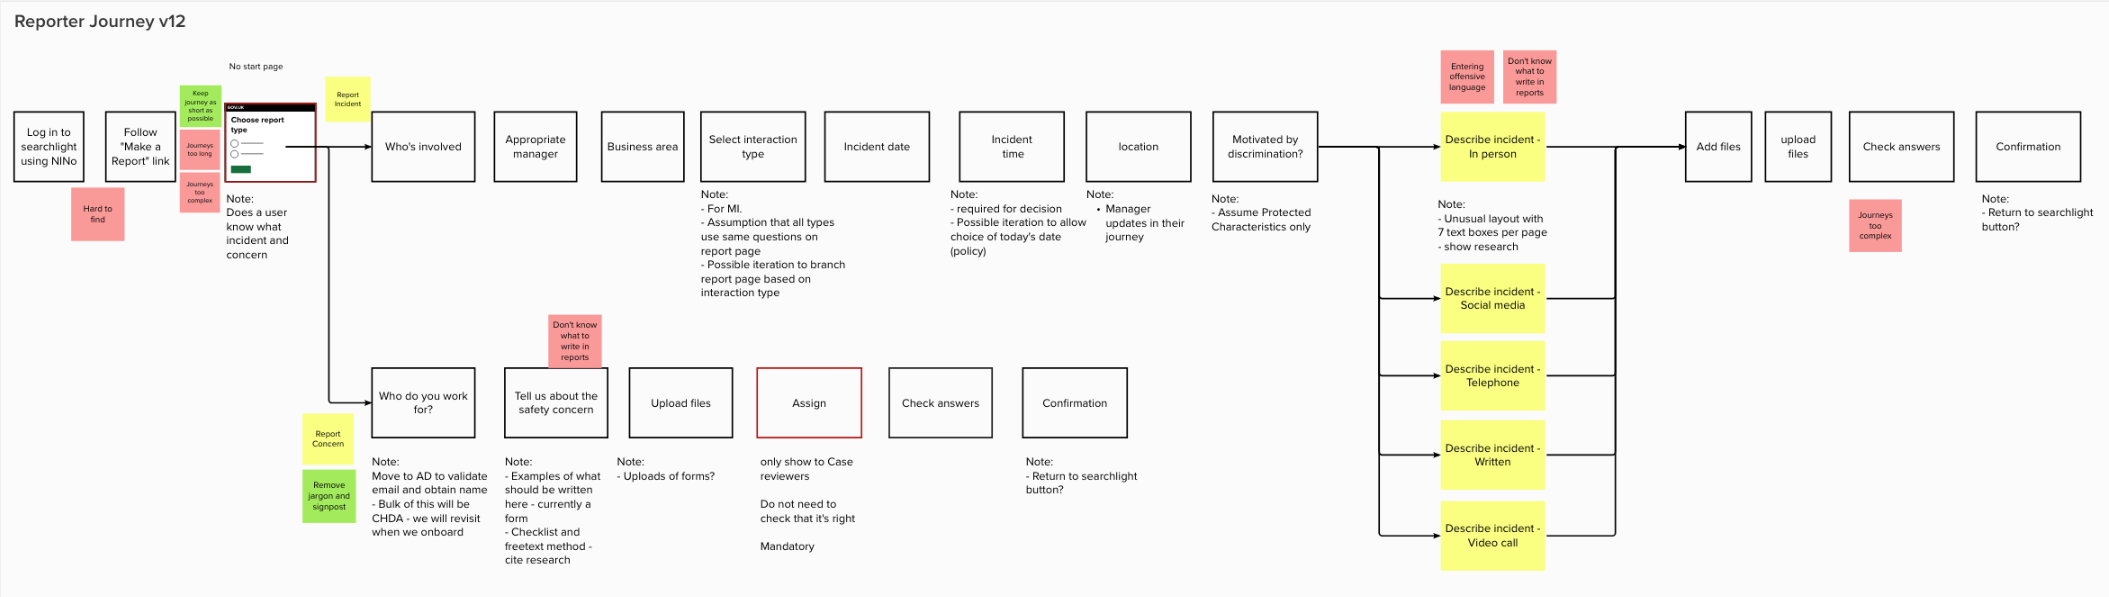
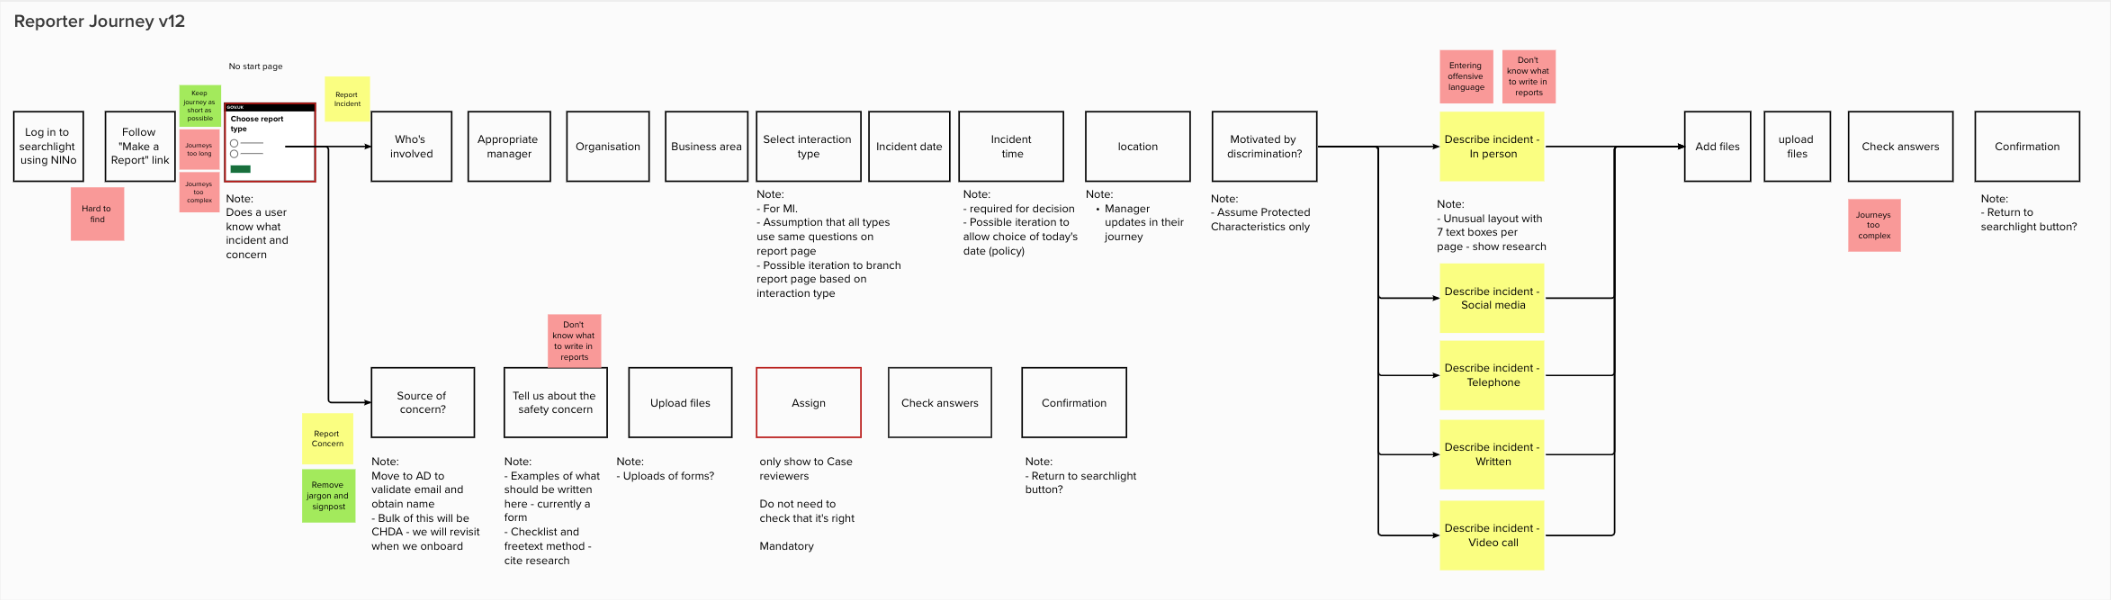
feature (reporter) organisation / business line

diff --git a/app/views/beta/report_incident/reportv12/04aorganisation.html b/app/views/beta/report_incident/reportv12/04aorganisation.html
@@ -1,0 +1,88 @@
+{% extends "layout.html" %}
+
+{% block pageTitle %}
+  Which organisation do you work for? - Keep Customer Interactions Safe
+{% endblock %}
+
+{% block beforeContent %}
+  <section aria-label="Phase banner" role="region">
+    {{ govukPhaseBanner({
+      tag: {
+        text: "beta"
+      },
+      html: 'This is a new service – your <a class="govuk-link" href="02behalf_error">feedback</a> will help us to improve it.'
+    }) }}
+  </section>
+  {% include "templates/v2/header_searchlight.njk" %}
+  <section aria-label="Back" role="region">
+    {{ govukBackLink({
+      text: "Back",
+      href: "javascript:history.back()"
+    }) }}
+  </section>
+{% endblock %}
+
+{% block content %}
+  <div class="govuk-grid-row">
+    <div class="govuk-grid-column-two-thirds">
+      <form class="form" action="04bbusiness" method="post">
+        {{ govukRadios({
+          idPrefix: "business",
+          name: "business",
+          fieldset: {
+            legend: {
+              text: "Which organisation do you work for?",
+              isPageHeading: true,
+              classes: "govuk-fieldset__legend--l"
+            }
+          },
+          items: [
+            {
+              value: "chda",
+              text: "Centre for Health and Disability Assessments (CHDA)"
+            },
+            {
+              value: "g4s",
+              text: "G4S"
+            },
+            {
+              value: "teleperformance",
+              text: "Teleperformance"
+            },
+            {
+              value: "capita",
+              text: "Capita"
+            },
+            {
+              value: "serco",
+              text: "Serco"
+            },
+            {
+              value: "ventura",
+              text: "Ventura"
+            },
+            {
+              value: "dwp",
+              text: "Department for Work and Pensions (DWP)"
+            },
+            {
+              value: "other",
+              text: "Other"
+            }
+          ],
+          hint: {
+            text: "Select one option."
+          }
+        }) }}
+        <div>
+          {{ govukButton({
+            text: "Continue"
+          }) }}
+        </div>
+      </form>
+    </div>
+  </div>
+	{% if not (checked("displaymode", "presentation") == "checked") %}
+		{% include "./notes/04aorganisation__notes.njk" %}
+	{% endif %}
+{% endblock %}

diff --git a/app/views/beta/report_incident/reportv12/04bbusiness.html b/app/views/beta/report_incident/reportv12/04bbusiness.html
@@ -1,7 +1,7 @@
 {% extends "layout.html" %}
 
 {% block pageTitle %}
-  What is your business area? - Keep Customer Interactions Safe
+  What is your business line? - Keep Customer Interactions Safe
 {% endblock %}
 
 {% block beforeContent %}
@@ -31,27 +31,54 @@
           name: "business",
           fieldset: {
             legend: {
-              text: "What is your business area?",
+              text: "What is your business line?",
               isPageHeading: true,
               classes: "govuk-fieldset__legend--l"
             }
           },
           items: [
             {
-              value: "1",
-              text: "Work and Health Services (UC)"
+              value: "workingage",
+              text: "Working Age",
+              hint: {
+                text: "For example: Job centres, work coaches, service centre agents"
+              }
             },
             {
-              value: "2",
-              text: "Child Maintenance Group"
+              value: "msp",
+              text: "Medical service provider (outsourced)"
             },
             {
-              value: "3",
-              text: "Retirement Services"
+              value: "cmg",
+              text: "Child maintenance group"
             },
             {
-              value: "4",
-              text: "Disability Services & Decision Making "
+              value: "cc",
+              text: "Corporate centre"
+            },
+            {
+              value: "dm",
+              text: "Debt management "
+            },
+            {
+              value: "pensions",
+              text: "Pensions"
+            },
+            {
+              value: "pip",
+              text: "Personal Independence Payments (PIP)"
+            },
+            {
+              value: "telephony",
+              text: "Telephony provider (outsourced)"
+            },
+            {
+              value: "cfcd",
+              text: "Counter Fraud, Compliance & Debt (CFCD)"
+            },
+            {
+              value: "other",
+              text: "Other"
             }
           ],
           hint: {
@@ -67,6 +94,6 @@
     </div>
   </div>
 	{% if not (checked("displaymode", "presentation") == "checked") %}
-		{% include "./notes/04abusiness__notes.njk" %}
+		{% include "./notes/04bbusiness__notes.njk" %}
 	{% endif %}
 {% endblock %}

diff --git a/app/views/beta/report_incident/reportv12/04bbusiness_error.html b/app/views/beta/report_incident/reportv12/04bbusiness_error.html
@@ -47,20 +47,40 @@
           },
           items: [
             {
-              value: "1",
-              text: "Work and Health Services (UC)"
+              value: "msp",
+              text: "Medical service provider (outsourced)"
             },
             {
-              value: "2",
-              text: "Child Maintenance Group"
+              value: "cmg",
+              text: "Child maintenance group"
             },
             {
-              value: "3",
-              text: "Retirement Services"
+              value: "cc",
+              text: "Corporate centre"
             },
             {
-              value: "4",
-              text: "Disability Services & Decision Making "
+              value: "dm",
+              text: "Debt management "
+            },
+            {
+              value: "pensions",
+              text: "Pensions"
+            },
+            {
+              value: "pip",
+              text: "Personal Independence Payments (PIP)"
+            },
+            {
+              value: "telephony",
+              text: "Telephony provider (outsourced)"
+            },
+            {
+              value: "cfcd",
+              text: "Counter Fraud, Compliance & Debt (CFCD)"
+            },
+            {
+              value: "other",
+              text: "Other"
             }
           ],
           hint: {
@@ -79,6 +99,6 @@
     </div>
   </div>
 	{% if not (checked("displaymode", "presentation") == "checked") %}
-		{% include "./notes/04abusiness__notes.njk" %}
+		{% include "./notes/04bbusiness__notes.njk" %}
 	{% endif %}
 {% endblock %}

diff --git a/app/views/index.html b/app/views/index.html
@@ -142,7 +142,8 @@ Prototype index - Keep Customer Interactions Safe
 								<ul class="govuk-list">
 									<li><a href="/beta/report_incident/reportv12/02behalf">02behalf</a></li>
 									<li><a href="/beta/report_incident/reportv12/03acting_manager">03acting_manager</a></li>
-									<li><a href="/beta/report_incident/reportv12/04abusiness">(04abusiness - incomplete)</a></li>
+									<li><a href="/beta/report_incident/reportv12/04aorganisation">04aorganisation</a></li>
+									<li><a href="/beta/report_incident/reportv12/04bbusiness">04bbusiness</a></li>
 									<li><a href="/beta/report_incident/reportv12/04interaction">04interaction</a></li>
 									<li><a href="/beta/report_incident/reportv12/05when-date">05when-date</a></li>
 									<li><a href="/beta/report_incident/reportv12/06when-time">06when-time</a></li>

diff --git a/app/views/beta/report_incident/reportv12/03acting_manager.html b/app/views/beta/report_incident/reportv12/03acting_manager.html
@@ -37,7 +37,7 @@
           }
         }) }}
       {% endset -%}
-      <form class="form" action="04abusiness" method="post">
+      <form class="form" action="04aorganisation" method="post">
         {{ govukRadios({
           idPrefix: "acting-manager",
           name: "acting-manager",
